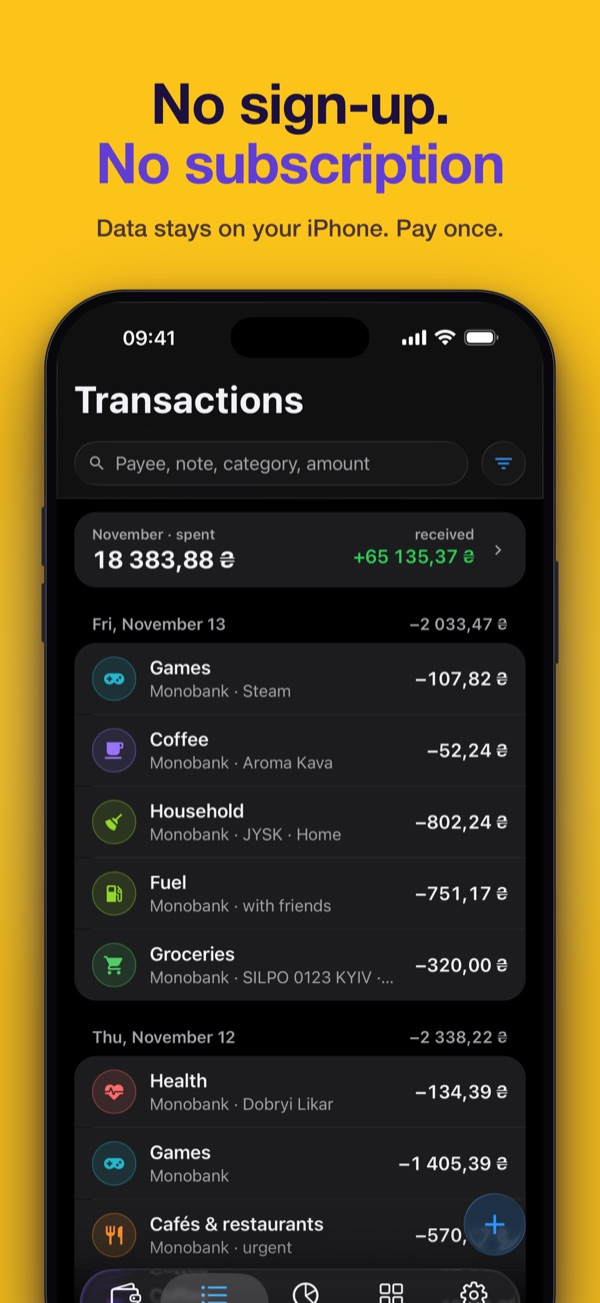
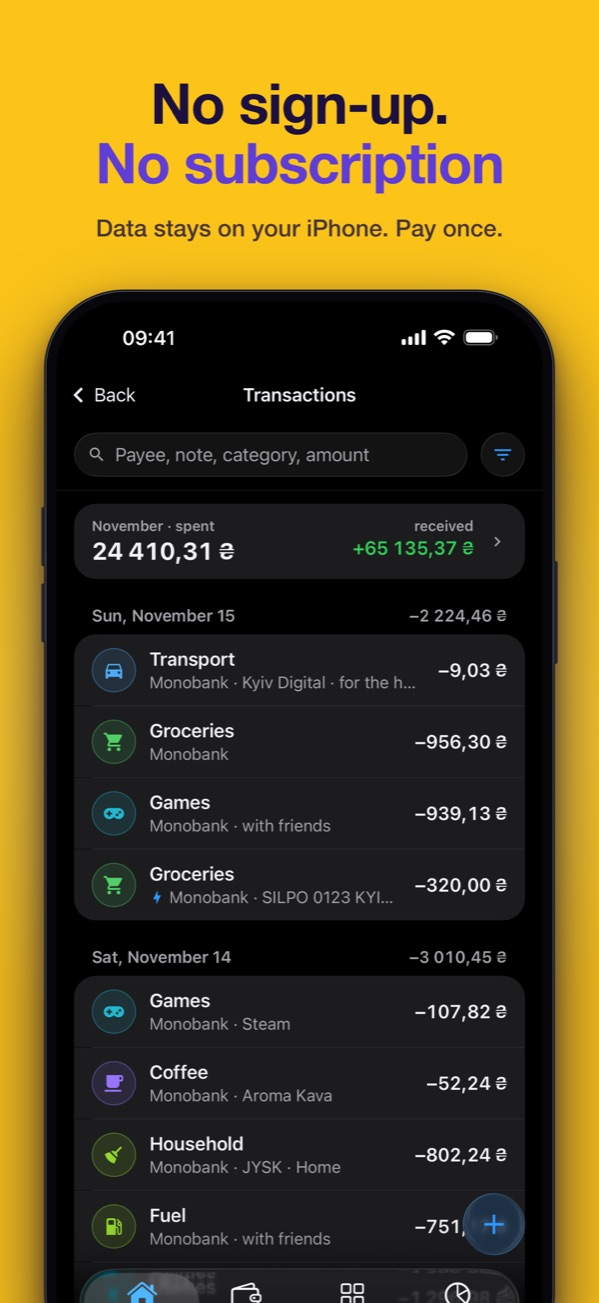
chore: знімки App Store під нову навігацію — кадри 1, 3, 4, 5 перезнято з релізної збірки шістьма мовами (Рахунки замість Головної, Операції всередині Головної, період у заголовку Статистики й Категорій), перезібрано 6,9″ і 6,3″, креативи, банери й картинки сайту; alt першого кадру на сайті; у роадм

diff --git a/index.html b/index.html
@@ -26,7 +26,7 @@
       </div>
 
       <div class="shots">
-        <img src="img/uk-1.jpg" alt="Головна: загальний баланс у гривні, рахунки в різних валютах і крипті" loading="lazy" />
+        <img src="img/uk-1.jpg" alt="Рахунки: загальна сума в гривні, рахунки в різних валютах і крипті, борги" loading="lazy" />
         <img src="img/uk-2.jpg" alt="Оплати карткою з Гаманця чекають підтвердження в черзі" loading="lazy" />
         <img src="img/uk-3.jpg" alt="Без реєстрації й без підписки: список операцій" loading="lazy" />
         <img src="img/uk-4.jpg" alt="Статистика місяця: дохід, витрати, заощадження й кільце категорій" loading="lazy" />

diff --git a/en/index.html b/en/index.html
@@ -25,7 +25,7 @@
       </div>
 
       <div class="shots">
-        <img src="../img/en-1.jpg" alt="Home: net worth, accounts in different currencies and crypto" loading="lazy" />
+        <img src="../img/en-1.jpg" alt="Accounts: total in one currency, accounts in different currencies and crypto, debts" loading="lazy" />
         <img src="../img/en-2.jpg" alt="Apple Wallet card payments waiting for confirmation" loading="lazy" />
         <img src="../img/en-3.jpg" alt="No sign-up, no subscription: the transactions list" loading="lazy" />
         <img src="../img/en-4.jpg" alt="Monthly statistics: income, spending, savings and a category ring" loading="lazy" />
